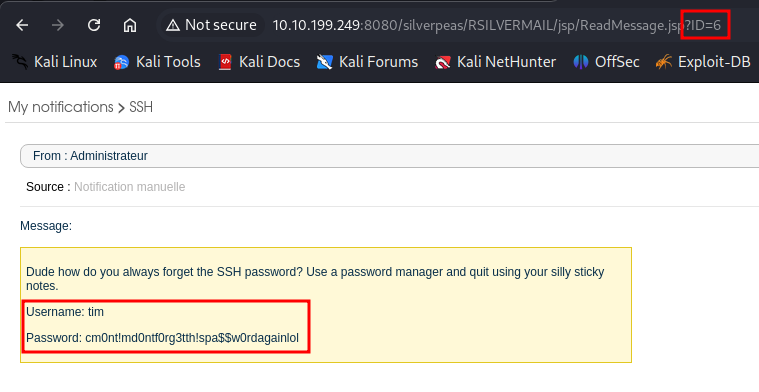
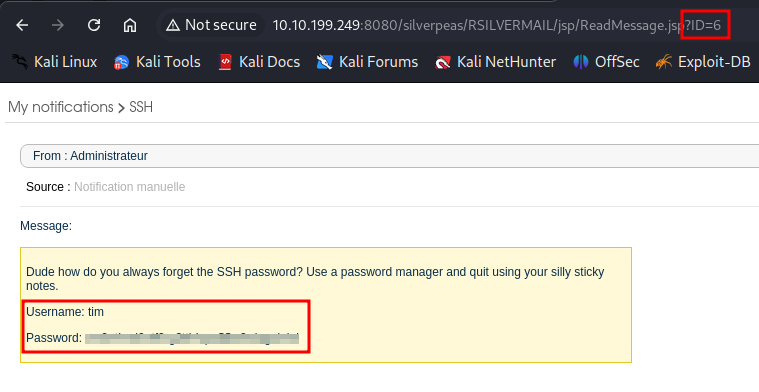
Obfuscation of pswds

Changed region(s): [[0.0909, 0.8265, 0.3939, 0.8878]]

diff --git a/_posts/2025-02-28-SilverPlatter.md b/_posts/2025-02-28-SilverPlatter.md
@@ -163,8 +163,6 @@ And. . . **SUCCESS** we have authentication!
 
 ![Caido Result](caidoresult.png){: width="1200" height="600"}
 
-> scr1ptkiddy:adipiscing
-
 ## Silverpeas:
 
 Let's go ahead and login. .
@@ -183,8 +181,6 @@ This is a case of ***Insecure direct object reference*** or ***IDOR***
 If you try changing that number eventually it will lead you to a message from the admin exposing the password needed for ssh login!
 
 ![IDOR ssh](idorssh.png){: width="1200" height="600"}
-
-> tim:cm0nt!md0ntf0rg3tth!spa$$w0rdagainlol
 
 ## SSH & Post-Exploitation:
 
@@ -225,12 +221,10 @@ This command will search recursively through all the logs and searches for the k
 
 ![Log Pswd](logpass.png){: width="1200" height="600"}
 
-```bash
-USER=root ; POSTGRES_PASSWORD=_Zd_zx7N823/
-```
->tyler:_Zd_zx7N823/
+Let's try to change to the user tyler using `sudo su`  
+Awesome!, the password worked.  
 
-Seems like this user `tyler` has `sudo` access!.
+If we check `id` it seems like this user `tyler` has `sudo` access!.
 
 ```bash
 tim@silver-platter:/var/log$ su tyler
